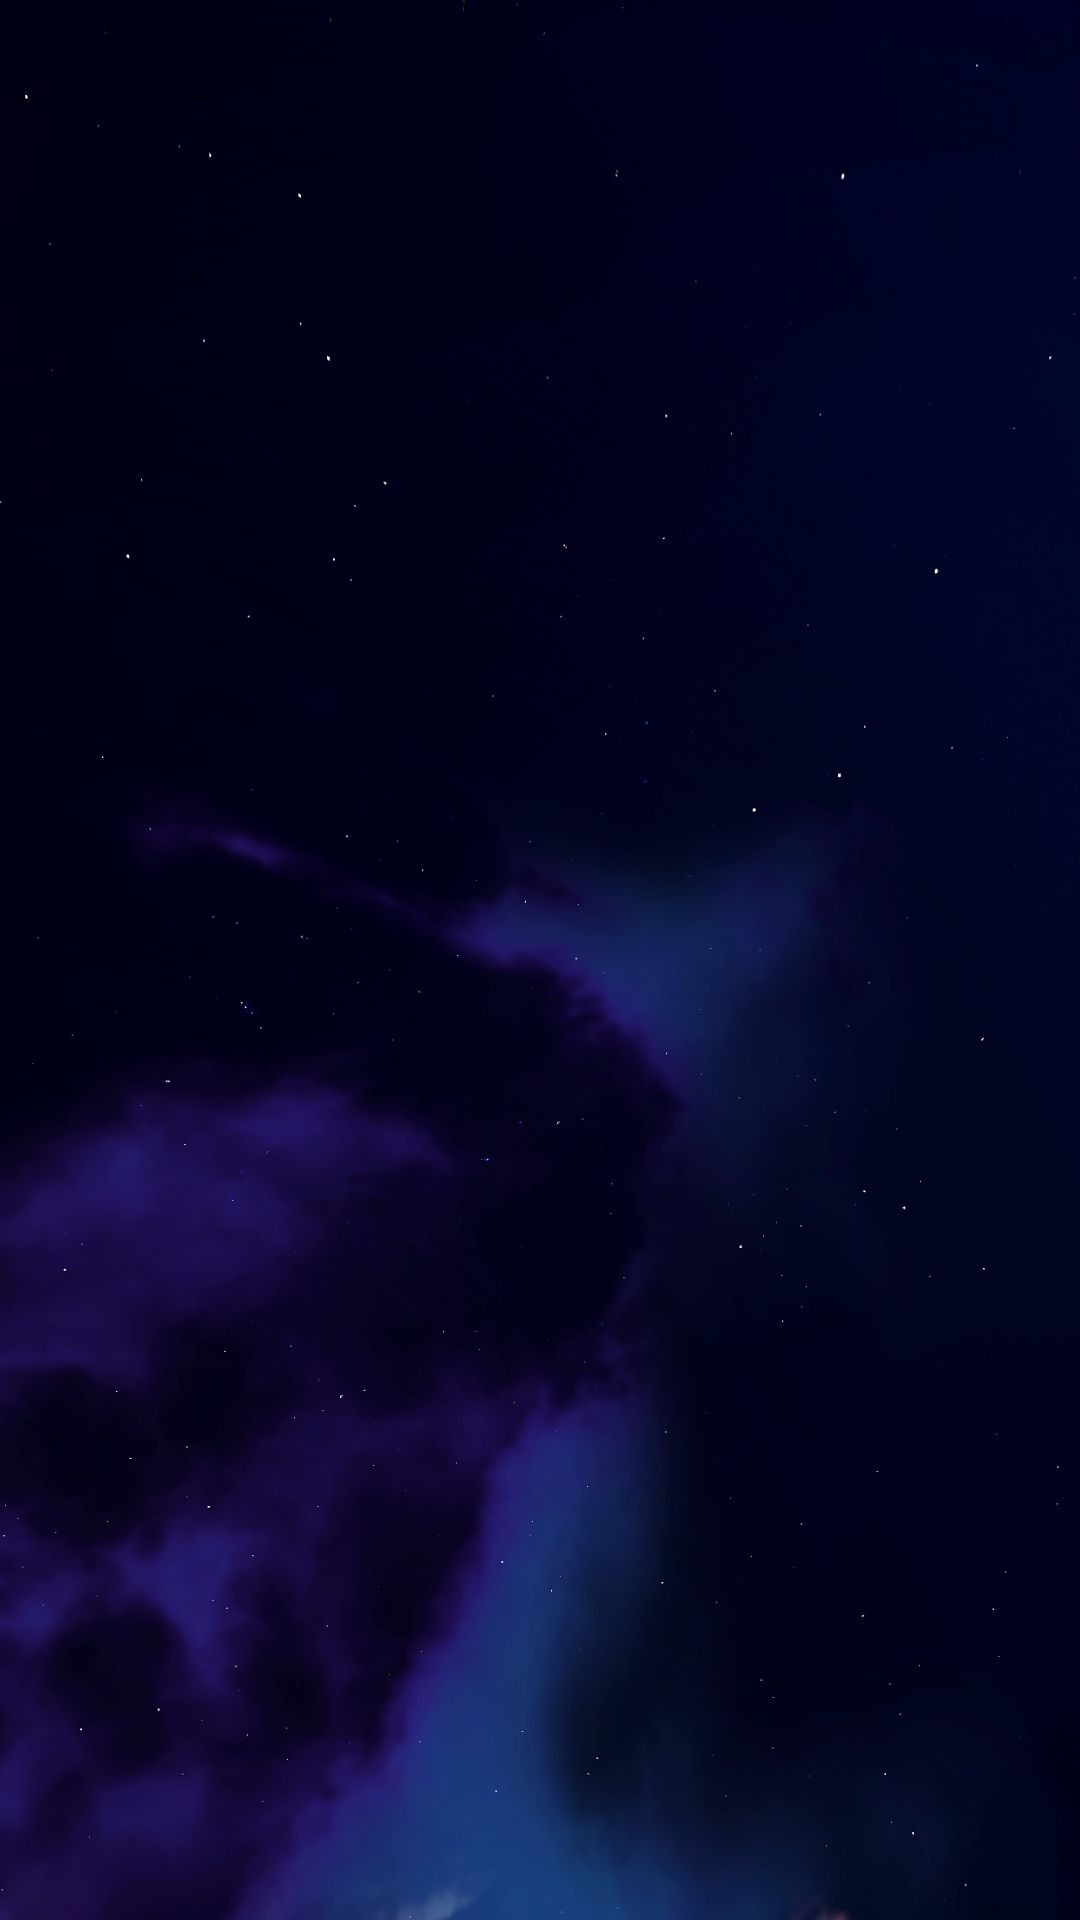
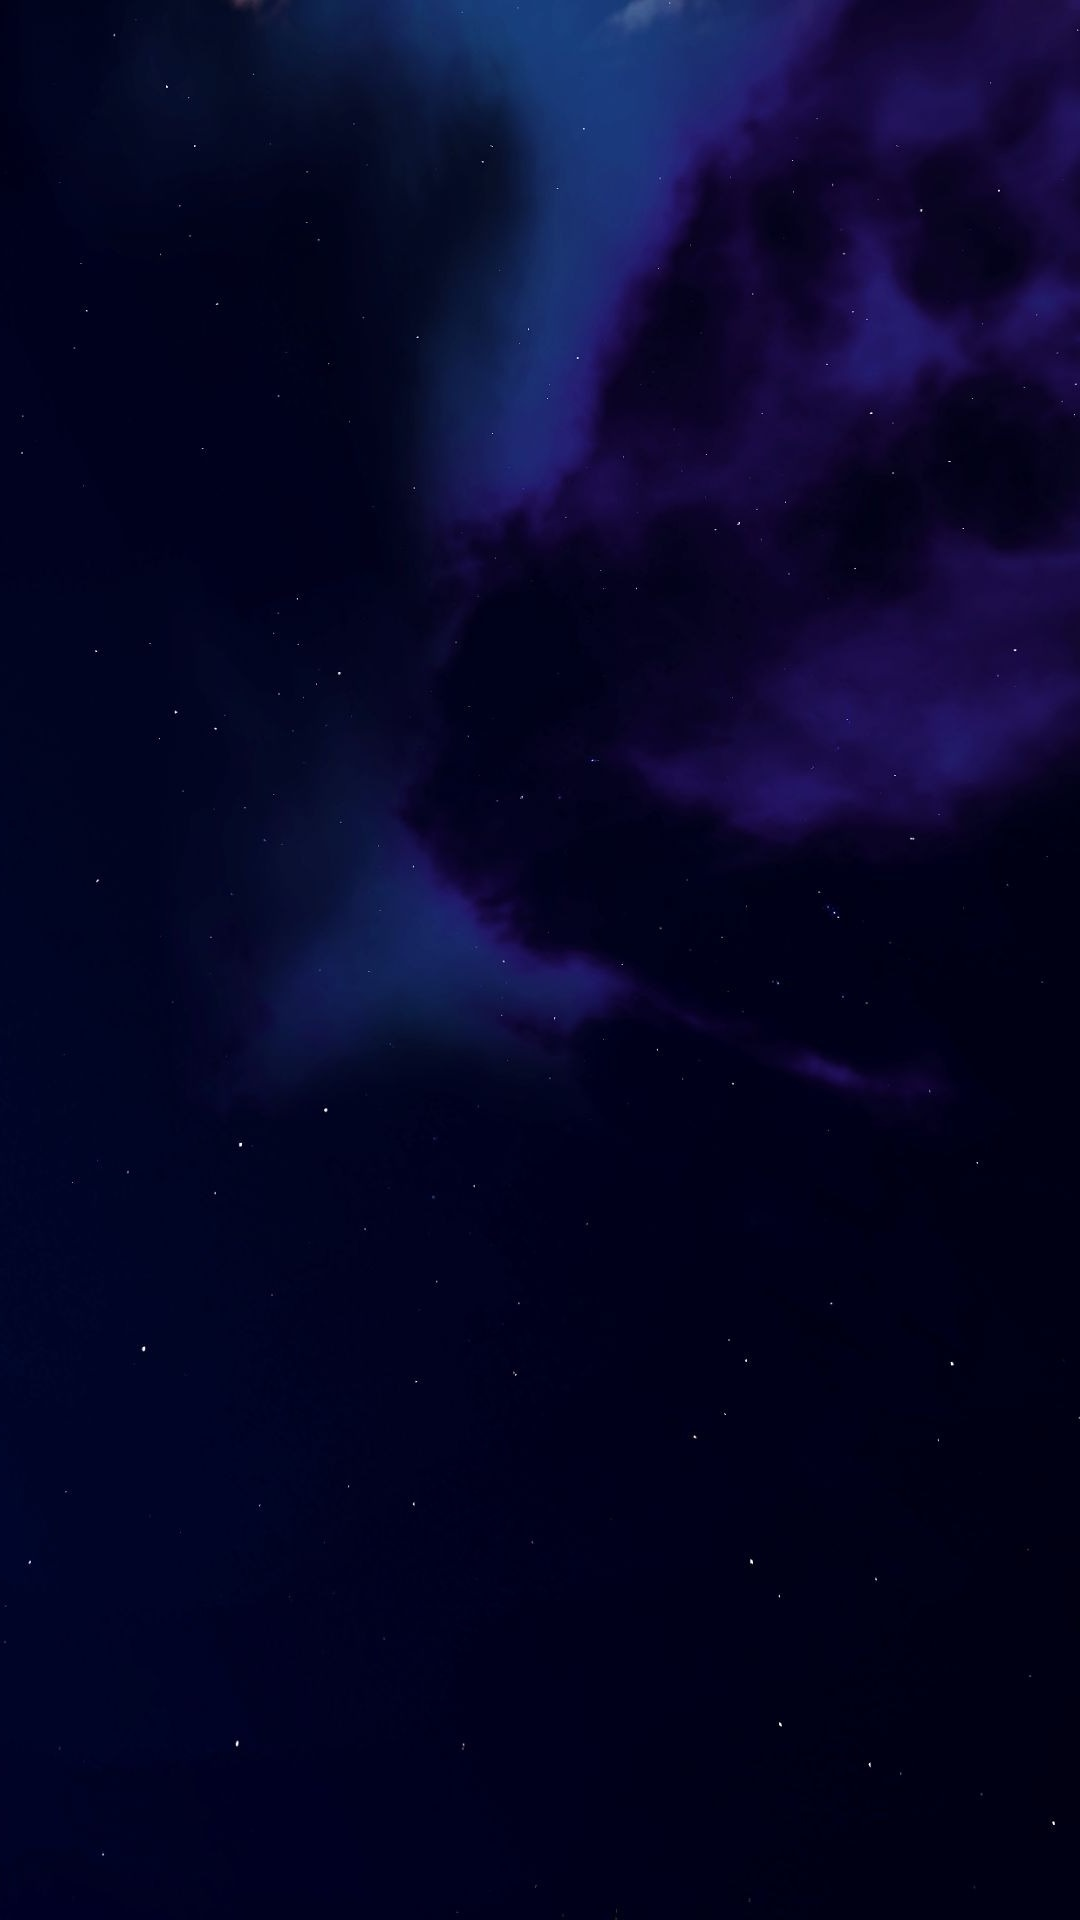
Rotate background for mobile and trying add dropdown to mobile UI (but not looks good).

diff --git a/exp.html b/exp.html
@@ -14,15 +14,14 @@
             transition:  visibility 1s;
             width: 50%;
             font-size: 20px;
-            color: rgb(200,200,200);
             border-radius: 20px;
             background-color: rgba(120,120,120,0.4);
-            margin-top: 20px;
-            margin-bottom: 20px;
+            margin-top: 2em;
+            margin-bottom: 2em;
         }
 
         div.WingHeader{
-            font-size: 30px;
+            font-size: 2em;
             color: rgb(255,255,255);
             border-radius: 20px;
             background-color: rgba(120,120,120,0.4);;
@@ -30,12 +29,15 @@
 
         div.WingBossList{
             transition: height 0.5s;
-            overflow: hidden;
+            overflow: auto;
         }
 
-        /*div.WingContainer:hover div.WingBossList{
-            height: auto;
-        }*/
+        div.WingBoss{
+            font-size: 1.5em;
+            color: rgb(150,150,150);
+            margin: 1em 0;
+            font-weight: normal;
+        }
 
         @media only screen and (max-width: 1080px) {
             div.WingContainer{
@@ -49,34 +51,42 @@
         <div class="WingContainer">
             <div class="WingHeader">Wing1</div>
             <div class="WingBossList">
-                <div clas="WingBoss">Vale Guardian</div>
-                <div clas="WingBoss">Gorseval the Multifarious</div>
-                <div clas="WingBoss">Sabetha the Saboteur</div>
+                <div class="WingBoss"><a href="123">Vale Guardian</a></div>
+                <div class="WingBoss">Gorseval the Multifarious</div>
+                <div class="WingBoss">Sabetha the Saboteur</div>
             </div>
         </div>
         <div class="WingContainer">
             <div class="WingHeader"><header>Wing2</header></div>
             <div class="WingBossList">
-                <div clas="WingBoss">Slothasor</div>
-                <div clas="WingBoss">Prison Camp</div>
-                <div clas="WingBoss">Matthias Gabrel</div>
+                <div class="WingBoss">Slothasor</div>
+                <div class="WingBoss">Prison Camp</div>
+                <div class="WingBoss">Matthias Gabrel</div>
             </div>
         </div>
         <div class="WingContainer">
             <div class="WingHeader"><header>Wing3</header></div>
             <div class="WingBossList">
-                <div clas="WingBoss">Siege the Stronghold</div>
-                <div clas="WingBoss">Keep Construct</div>
-                <div clas="WingBoss">Xera</div>
+                <div class="WingBoss">Siege the Stronghold</div>
+                <div class="WingBoss">Keep Construct</div>
+                <div class="WingBoss">Xera</div>
             </div>
         </div>
         <div class="WingContainer">
             <div class="WingHeader"><header>Wing4</header></div>
             <div class="WingBossList">
-                <div clas="WingBoss">Cairn the Indomitable</div>
-                <div clas="WingBoss">Mursaat Overseer</div>
-                <div clas="WingBoss">Samarog</div>
-                <div clas="WingBoss">Deimos</div>
+                <div class="WingBoss">Cairn the Indomitable</div>
+                <div class="WingBoss">Mursaat Overseer</div>
+                <div class="WingBoss">Samarog</div>
+                <div class="WingBoss"><div class="DropdownContainer"><div class="Dropdown"><span class="Fail">Deimos</span></div><div class="DropdownContent">
+                        <a href="https://dps.report/cnKj-20171102-232419_dei">2:04</a><br>
+                        <a href="https://dps.report/j91A-20171102-233228_dei">6:11</a><br>
+                        <a href="https://dps.report/WOM8-20171102-233440_dei">0:17</a><br>
+                        <a href="https://dps.report/RLrZ-20171102-234104_dei">2:34</a><br>
+                        <a href="https://dps.report/IvNK-20171102-234546_dei">2:48</a><br>
+                        <a href="https://dps.report/Srgt-20171102-235431_dei">6:05</a><br>
+                        <a href="https://dps.report/A1A9-20171103-000348_dei">3:59</a><br>
+                    </div></div></div>
             </div>
         </div>
         <a href="index.html" style="font-size: 1.5em;">Back</a>
